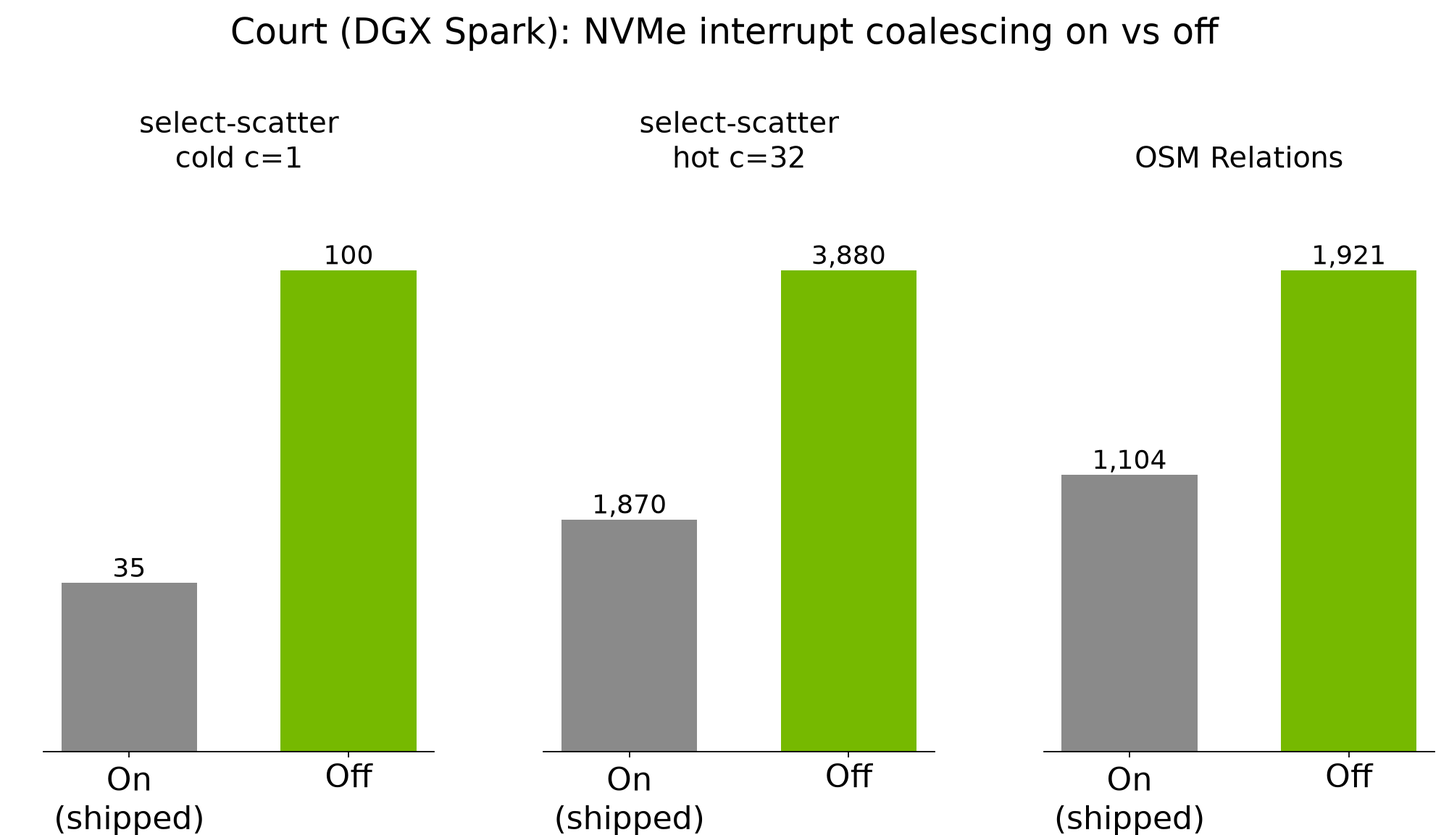
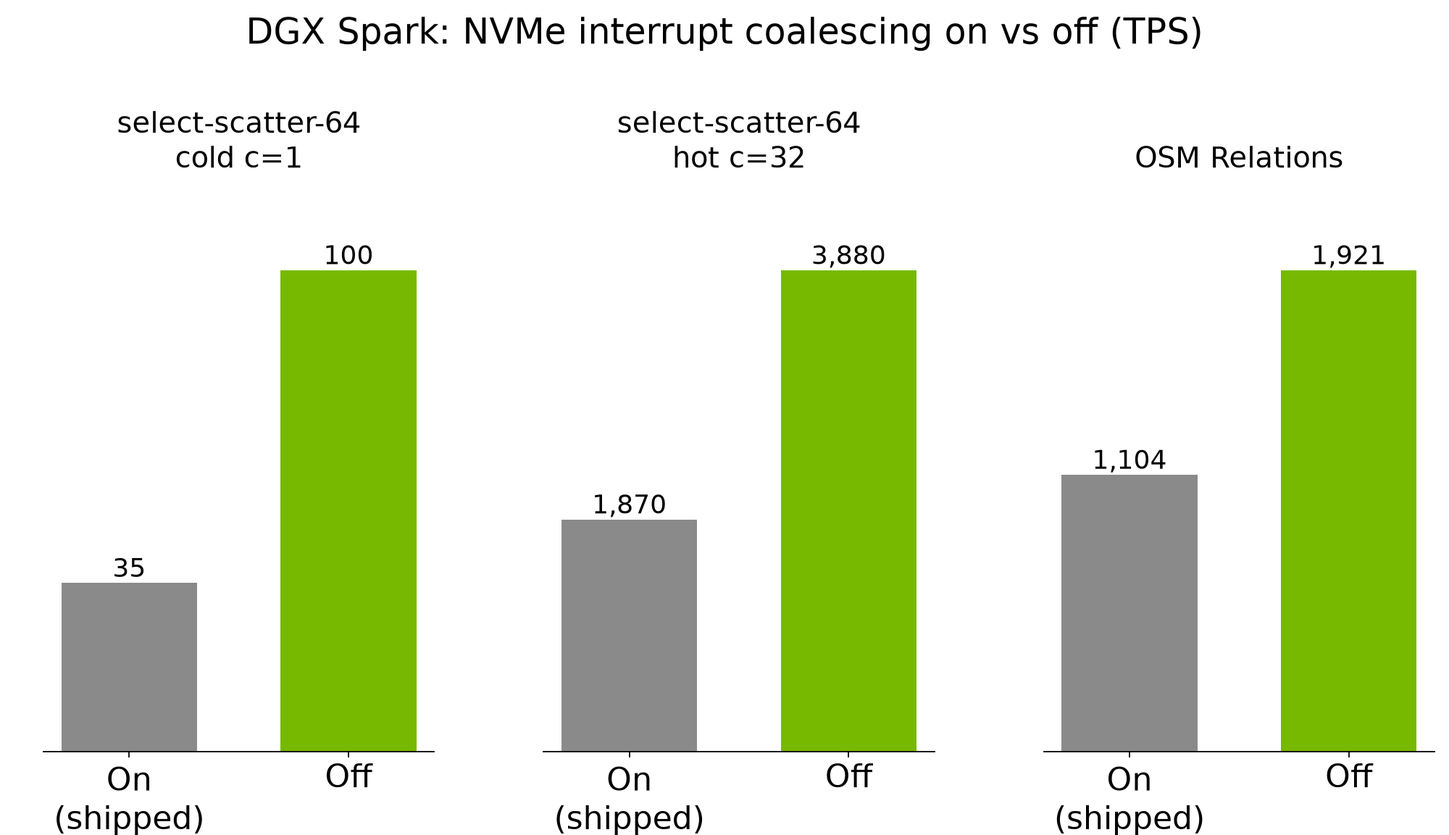
Close Abbey Darwin findings and align platform nav with the homepage.
Bank set 20/21 scatter and OSM confirmation, note the 67/68 disk-fill eject, add select-scatter-N scripts plus SCATTER=, and nest Platform guides the same way as the main page. Coalescing chart title keeps DGX Spark and TPS without the house name.

Changed region(s): [[0.155, 0.0, 0.837, 0.0625], [0.434, 0.125, 0.589, 0.1562], [0.093, 0.125, 0.248, 0.1562]]

diff --git a/reports/nvme-coalescing-compare.py b/reports/nvme-coalescing-compare.py
@@ -1,5 +1,5 @@
 #!/usr/bin/env python3
-"""Court NVMe coalescing on/off comparison bars for the platform guide."""
+"""NVMe coalescing on/off comparison bars (TPS) for the platform / ARM study."""
 
 from __future__ import annotations
 
@@ -59,7 +59,7 @@ def main() -> int:
 
     # One blank line under the figure title; give the rest to the bars.
     fig.suptitle(
-        "Court (DGX Spark): NVMe interrupt coalescing on vs off",
+        "DGX Spark: NVMe interrupt coalescing on vs off (TPS)",
         fontsize=22,
         y=0.98,
     )

diff --git a/docs/studies/arm-random-read-vs-x86/index.md b/docs/studies/arm-random-read-vs-x86/index.md
@@ -8,7 +8,7 @@ nav_order: 1
 
 # ARM vs x86: slow scattered index→heap buffer misses
 
-**Status:** Initial report (2026-11-13), updated 2026-11-15 with the court and Darwin culprits. Intended for discussion on pgsql-hackers.
+**Status:** Initial report (2026-11-13); culprits 2026-11-15; Darwin I/O-class closed and Abbey disk-fill eject 2026-11-21. Intended for discussion on pgsql-hackers.
 
 **Not a PG19 regression, and not an AIO bug.** This Relations lag has shown up consistently on Darwin (Abbey) since **PG17**, and on court (NVIDIA DGX Spark) back through **PG16**. It looks “new” only because nobody had isolated a small public case before. The causes are in the desktop ARM platforms' I/O path, not in Postgres. On court the main culprit is NVMe **interrupt coalescing** left on by the drive firmware. On Darwin it is Homebrew's **`brew services` LaunchAgent**, which clamps Postgres to a utility I/O class. See [Culprits identified so far](#culprits-identified-so-far). It also barely shows up in the wild: the OSM planet load that surfaces it needs a fast database **and** a client with enough RAM to hold a large nodes cache (~128 GB class). Most setups never get into that corner.
 
@@ -111,20 +111,20 @@ Sets: court **14–18**; twilight **124–126**. Court's grid ran with the drive
 
 ### Darwin ARM cross-check (PG 18.6, scale 17500)
 
-Abbey — Apple M4 Max, 128 GB, macOS. Set **13**, high durability (`fsync=on`, `wal_level=replica`, `io_method=worker`). Slightly larger DB than the Linux pair, mild handicap versus Linux tests. Ran under Homebrew `brew services` (utility I/O clamp — see Darwin section below); treat these numbers as soft.
+Abbey — Apple M4 Max, 128 GB, macOS. High durability (`fsync=on`, `wal_level=replica`, `io_method=worker`). Slightly larger DB than the Linux pair, mild handicap versus Linux tests. Set **13** ran under Homebrew `brew services` (utility I/O clamp). Set **20** is the published unclamped peer (`pg_ctl` / tier 0).
 
-| clients | M4 cold | M4 hot |
-|---------|------|-----|
-| 1 | 85 | 115 |
-| 8 | 867 | 957 |
-| 32 | 2331 | 2400 |
+| clients | set 13 cold (clamped) | set 13 hot | set 20 cold (tier 0) | set 20 hot |
+|---------|----------------------|------------|----------------------|------------|
+| 1 | 85 | 115 | 86 | 139 |
+| 8 | 867 | 957 | 1040 | 1209 |
+| 32 | 2331 | 2400 | 3188 | 3368 |
 
 ## Takeaways
 
 1. **`io_method=sync` ≈ `worker` on both Linux hosts.** The ARM/x86 gap does **not** move. AIO method is not the cause (and this was never a PG19-only symptom — see opening). Select-scatter cells here are 19rc2 on Linux and 18.6 on Darwin only because that is what was handy to instrument.
 2. **Court `read_ahead_kb` 2048 vs 128 is flat.** Setting **0 hurts** (~½ throughput). The gap is not ARM reading ahead too much at 2048.
 3. **`effective_io_concurrency=0` is flat on both hosts** (court **18**, twilight **126** vs their worker baselines). Prefetch/EIC is not the lever for this NL heap-fetch shape either.
-4. **A second ARM vendor/OS is also well below x86.** At 32 clients, x86 twilight is ~**3.5×** court (as shipped) and ~**2.8×** M4 Abbey. Both ARM hosts lose the same way to the x86 box, though as the next section shows, not necessarily for the same reason.
+4. **A second ARM vendor/OS is also well below x86.** At 32 clients hot, x86 twilight (~6700) is ~**3.5×** court as shipped, ~**1.7×** court with coalescing off (~3880), and ~**2.0×** M4 Abbey unclamped (set **20**, ~3370). Both ARM hosts lose to the x86 box, though as the next section shows, not for the same reason.
 
 After (1)–(4), what remains is **miss cost on the desktop ARM platforms themselves** for this scattered index→heap pattern. It's not CPU efficiency, not `read_ahead_kb`, not `effective_io_concurrency`, and not a new release or AIO landing.
 
@@ -147,7 +147,7 @@ Court's drive (Samsung `MZALC4T0HBL1`, OEM firmware `NXHB202Q`) ships with NVMe 
 
 The timer's minimum nonzero value is 100 µs, so lowering the threshold can't help a lone synchronous reader; **off** is the only useful setting. At high queue depth the drive is fine — coalescing is a throughput / interrupt-rate trade that makes sense as a desktop OEM default, and is the wrong trade for Postgres buffer misses. That is court's **#1** problem for this workload. Full x86 parity is not expected after the fix. The remaining gap vs farm x86 looks roughly proportional to clock — Grace here ~**2.8 GHz** vs desktop x86 in **~5.7 GHz** territory (~**2×**); see [DGX Spark § Residual vs x86]({{ '/platform/dgx-spark/#residual-vs-x86-clock' | relative_url }}).
 
-![Court NVMe coalescing on vs off — select-scatter-64 and OSM Relations]({{ '/images/nvme-coalescing-compare.png' | relative_url }})
+![DGX Spark: NVMe interrupt coalescing on vs off (TPS) — select-scatter-64 and OSM Relations]({{ '/images/nvme-coalescing-compare.png' | relative_url }})
 
 Operator recipe and numbers: [NVMe interrupt coalescing]({{ '/platform/nvme-coalescing/' | relative_url }}).
 
@@ -171,22 +171,19 @@ Things checked and ruled out on court along the way:
 
 pgbent now disables NVMe coalescing in `util/pgbent_tune`, which `newgis` runs after every boot alongside readahead and the CPU governor. The setting is not saved to the drive, so a power cycle restores the firmware default — same convention as the other post-boot knobs.
 
-### Darwin (Abbey): Homebrew LaunchAgent I/O class — confirmed
+### Darwin (Abbey): Homebrew LaunchAgent I/O class — confirmed / closed
 
 Homebrew's `brew services` installs a LaunchAgent (`sh.brew.postgresql@N`) that starts Postgres under launchd. On Apple Silicon that agent runs with a **QoS clamp of `THREAD_QOS_UTILITY`**, which also drops the process to **I/O throttle tier 1 (STANDARD)** instead of tier 0 (IMPORTANT). Disk reads from that postmaster are treated as background relative to interactive work. `taskinfo` on the postmaster shows the clamp; backends inherit it.
 
-| how Postgres is started | QoS clamp | I/O tier | c=1 cold TPS | c=32 cold TPS |
-|---|---|---|---|---|
-| `brew services` (LaunchAgent) | `THREAD_QOS_UTILITY` | tier 1 STANDARD | ~52–53 | ~1670–1677 |
-| `pg_ctl` from an ssh/login shell | none | tier 0 IMPORTANT | ~68 | ~2577–2579 |
+Published grids (same 8 KB Homebrew binary, scale 17500, durable face): set **13** clamped vs set **20** `pg_ctl` tier 0 — see the Darwin cross-check table above. Unclamping is about **+20% at c=1 hot** and **+40% at c=32**. An earlier ad-hoc restart A/B saw the same direction. Intermittent “Darwin looks fine / then doesn’t” OSM behavior matches sometimes using `brew services` and sometimes a manual `pg_ctl`.
 
-Same 8 KB Homebrew binary, same scale-17500 DB, restart + `purge` before each pass. Unclamping is about **+30% at c=1** and **+54% at c=32**. The published Abbey set **13** numbers above were under the clamped service. Intermittent “Darwin looks fine / then doesn’t” behavior in earlier OSM work is consistent with sometimes running under `brew services` and sometimes under a manual `pg_ctl`.
+**Recipe:** for database work on macOS, do not use `brew services` as the long-running server. Stop the LaunchAgent and start with `pg_ctl` (set `LC_ALL` to a real locale — Homebrew’s plist does that; a bare `pg_ctl` without it can fail with “postmaster became multithreaded during startup”). A custom LaunchDaemon/LaunchAgent without the utility clamp would also work; the stock Homebrew one does not. Operator detail: [macOS LaunchAgent I/O class]({{ '/platform/darwin/' | relative_url }}).
 
-**Recipe:** for database work on macOS, do not use `brew services` as the long-running server. Stop the LaunchAgent and start with `pg_ctl` (set `LC_ALL` to a real locale — Homebrew’s plist does that; a bare `pg_ctl` without it can fail with “postmaster became multithreaded during startup”). A custom LaunchDaemon/LaunchAgent without the utility clamp would also work; the stock Homebrew one does not.
+**Block size is not the lever here.** A from-source PG 18.6 build with `--with-blocksize=16` (matching Apple Silicon’s 16 KB VM pages) was A/B’d unclamped against the 8 KB Homebrew cluster on the same cold `select-scatter-64` protocol: ~71 vs ~68 TPS at c=1, ~2198 vs ~2160 at c=32 — flat. Prefer fixing the I/O class over a custom page size.
 
-**Block size is not the lever here.** A from-source PG 18.6 build with `--with-blocksize=16` (matching Apple Silicon’s 16 KB VM pages) was A/B’d unclamped against the 8 KB Homebrew cluster on the same cold `select-scatter-64` protocol: ~71 vs ~68 TPS at c=1, ~2198 vs ~2160 at c=32 — flat. The spindle-era lore that larger pages half the I/O count does not show up on this NVMe miss path. You probably don't need your own recompile just to change the default 8 KB page size to 16; you should try fixing the I/O class instead.
+**OSM:** unclamped durable set **15** moved Relations ~**1.43×** (**~10600 s → 7527 s**, **~1944**/s). Cool-disk retry set **16** matched (**~1930**/s Relations, **10.41h**, index **67** kNodes/s, score **279**) — board cell. Clean-disk confirmation set **21** (~1.4 Ti free) kept the same ~40k s index wall and finished **10.86h** / score **276**. Unclamping helps Relations and scatter; it is **not** a free win for planet indexes or overall score. btree init tier ladder (sets **17**/**18**) was mostly flat. **Investigation closed.**
 
-Abbey unclamped durable OSM (set **15**) moved Relations ~**1.43×** (**~10600 s → 7527 s**, **~1944**/s). Cool-disk retry (set **16**) matched it (**~1930**/s Relations, **10.41h** overall, index **67** kNodes/s) — the index-phase regression is real, not a hot-disk artifact. **Investigation closed:** unclamping is the right operator fix for Relations-shaped reads / scatter, **not** a free win for planet indexes or overall OSM score. No further Darwin I/O-class chase.
+**Disk fill is a separate invalidation.** Set **11** tests **67**/**68** (~11.1 h, scores 268/270) were low-free-space SSD collapses and have been **ejected** from the Abbey results DB. Runs over ~11 h on this box are not fair cells. The durable-unclamp index cost (~40k s) is not that cliff.
 
 ## Handoff
 
@@ -198,6 +195,14 @@ Natural next reproduction: **Graviton** or another server-class Linux ARM vendor
 
 - Court OSM coalescing off: durable set **24** / test **217** Relations **~1.74×** (**13251 s → 7614 s**), **6.48h**, score **656**; fast set **25** / test **218** **6.12h**, score **780** — on the public boards.
 - Court's remaining ~2× Relations gap vs a good x86 after coalescing — suspected mostly the ~2.8 vs ~5.7 GHz clock envelope; not assumed to reach parity.
-- Abbey Darwin I/O-class **closed**: Relations/scatter win when unclamped; indexes / ~10.4h overall stay slow (sets **15**/**16** board cell **279**; scatter tier-0 set **20**). Not chasing further.
-- Twilight `read_ahead_kb` ladder + OSM RA=0 (sets **134–146**) and wrap fast OSM set **152** (**570** / **5.26h**, not board-best) banked; RA=0 cost under [Linux standard tuning]({{ '/platform/linux/' | relative_url }}) § Read-ahead.
+- Abbey Darwin I/O-class **closed** (2026-11-21): scatter set **20** vs **13**; OSM board set **16** (score **279**); set **21** confirmation banked; disk-fill tests **67**/**68** ejected. Not chasing further.
+- Twilight `read_ahead_kb` ladder + OSM RA=0 (sets **134–146**) and wrap fast OSM set **152** (**570** / **5.26h**, not board-best) banked; RA=0 cost under [Linux standard OS tuning]({{ '/platform/linux/' | relative_url }}) § Read-ahead.
 - CPU and power cost of coalescing off (court avg package ~24→34 W; Relations/watt still up).
+
+### Next probes (court predictable; same MULTI / one-knob style)
+
+Court is stable enough to use the results DB the way GUC studies already do: **hold the face fixed, change one benchmark parameter, label it in `tests.multi` (or `SETCLIENTS`), compare.**
+
+1. **OSM client / process parallelism on ARM.** Twilight and siren settled on `SETCLIENTS=5` / osm2pgsql `--number-processes 5` long ago. Court (20 mixed cores, coalescing off) may want a different optimum — ladder a few process counts on the same durable (or fast) face and pick by Relations/s and overall wall clock, not by habit.
+
+2. **`select-scatter-N` size ladder** — court set **30** done (scripts **1 / 2 / 4 / 8 / 16 / 64**, cold/hot, coalescing off). Still to run: same ladder on **twilight** (x86 peer); Abbey later if useful. Scripts live as `tests/select-scatter-N.sql` with `SCATTER=N` / `MULTI=N` via `wl/arm-miss-isolation`.

diff --git a/docs/platform/darwin.md b/docs/platform/darwin.md
@@ -1,23 +1,23 @@
 ---
 layout: home
-title: macOS / Darwin
+title: macOS LaunchAgent I/O class
 permalink: /platform/darwin/
 parent: Platform guides
-nav_order: 5
+nav_order: 3
 ---
 
-# macOS / Darwin
+# macOS LaunchAgent I/O class
 
 ## Homebrew `brew services` I/O class
 
 Homebrew’s `brew services` installs a LaunchAgent (`sh.brew.postgresql@N`) that starts Postgres under launchd. On Apple Silicon that agent runs with a **QoS clamp of `THREAD_QOS_UTILITY`**, which drops the process to **I/O throttle tier 1 (STANDARD)** instead of tier 0 (IMPORTANT). Disk reads look like background work relative to the desktop.
 
-| How Postgres is started | QoS clamp | I/O tier | select-scatter-64 c=1 cold | c=32 cold |
-|-------------------------|-----------|----------|-------------------------|-----------|
-| `brew services` | `THREAD_QOS_UTILITY` | tier 1 | ~52–53 TPS | ~1670–1677 |
-| `pg_ctl` from ssh/login | none | tier 0 | ~68 TPS | ~2577–2579 |
+| How Postgres is started | QoS clamp | I/O tier | select-scatter-64 set | c=1 | c=32 |
+|-------------------------|-----------|----------|----------------------|-----|------|
+| `brew services` | `THREAD_QOS_UTILITY` | tier 1 | **13** (clamped) | 85–115 | 2331–2400 |
+| `pg_ctl` from ssh/login | none | tier 0 | **20** (unclamped) | 86–139 | 3188–3368 |
 
-About **+30% at c=1** and **+54% at c=32** when unclamped. Published Abbey select-scatter-64 set **13** was under the clamped service — treat those numbers as soft. The unclamped A/B lives in ad-hoc `results/logs/darwin-qos-ab/` logs, not as a results-DB set. **Loose end:** after the btree build ladder (sets **17**/**18**), re-run the cold `select-scatter-64` grid under **tier 0** (`pg_ctl`) into a proper `testset` so the study has a published unclamped peer to set 13. Intermittent “Darwin looks fine / then doesn’t” OSM behavior matches sometimes using `brew services` and sometimes a manual `pg_ctl`.
+Published cold/hot grids (scale 17500, durable face). Unclamping is about **+20% at c=1 hot** and **+40% at c=32** versus the clamped set. An earlier ad-hoc restart A/B (`results/logs/darwin-qos-ab/`) saw a similar direction at lower absolute TPS. Intermittent “Darwin looks fine / then doesn’t” OSM behavior matches sometimes using `brew services` and sometimes a manual `pg_ctl`.
 
 ### Startup: tier 1 (brew / LaunchAgent)
 
@@ -79,21 +79,22 @@ eff qos clamp: THREAD_QOS_UNSPECIFIED
 
 Backends inherit the postmaster’s effective policy. Spot-check one with `pgrep -P $pm -f 'postgres: '` and the same `taskinfo` grep.
 
-## Verdict (closed 2026-11-20)
+## Verdict (closed 2026-11-21)
 
 **Unclamping I/O class is not a free win for the whole OSM load.** Keep the operator recipe (prefer `pg_ctl` / tier 0 over stock `brew services`) for Relations-shaped random reads and SELECT scatter. Do **not** expect it to fix planet **index** wall time or board score by itself. No further Abbey I/O-class / REINDEX chase unless a new question opens.
 
 | probe | result |
 |-------|--------|
-| Cold `select-scatter-64` clamp → unclamp (set **13** vs **20**) | Clear win (~86–139 @1 / ~3188–3368 @32 unclamped) |
+| Cold `select-scatter-64` clamp → unclamp (set **13** vs **20**) | Clear win (set **20**: 86–139 @1 / 3188–3368 @32) |
 | Durable OSM unclamp (sets **15** / **16**) | Relations ~**1.43×**; overall still ~**10.4h** — indexes stay slow |
+| Clean-disk confirmation (set **21**, ~1.4 Ti free) | Indexes match **15**/**16** (~40k s); overall **10.86h** / score **276** — banked, not a board cell |
 | pgbench init btree ladder tier 1 vs 0 (sets **17** / **18**) | Mostly flat — no OSM-index-shaped free lunch |
 | Block size 8 KB vs 16 KB | Flat |
 
-Set **21** (clean-disk unclamped OSM retry, started 2026-11-20 with ~1.4 Ti free) may finish as a banked confirmation cell; it is **not** a gate and needs no follow-up matrix. Disk fill can spoil NVMe runs (leftover `gis`+`pgbench` left only ~393 Gi free before the cleanup) — keep headroom — but set **16** already had **1.5 Ti** free at start with slow indexes, so fill alone does not reopen the case.
+**Disk fill is a separate flaw.** When the Data volume is short on free space, Abbey OSM index builds can collapse into **>11 h** runs that are not fair comparisons. Set **11** tests **67** and **68** (~11.1 h, scores 268/270) were that pattern and have been **ejected** from the results DB. Keep headroom before a planet load. Slow indexes on the durable unclamped face (~40k s on **15**/**16**/**21**, including cool-disk and clean-disk retries) are **not** that fill cliff — they are the real cost of this face on Darwin.
 
 ## Block size
 
 Rebuilding Postgres with `--with-blocksize=16` to match Apple Silicon’s 16 KB VM pages was A/B’d unclamped against 8 KB Homebrew on the same cold select-scatter-64 protocol: **flat** (~71 vs ~68 at c=1, ~2198 vs ~2160 at c=32). Spindle-era lore that larger pages half the I/O count does not show up here. Prefer fixing the I/O class over a custom page size.
 
-Public durable board cell remains set **16** (score **279**). Details: [ARM random read vs x86]({{ '/studies/arm-random-read-vs-x86/' | relative_url }}).
+Public durable board cell remains set **16** (score **279**, **10.41h**). Details: [ARM random read vs x86]({{ '/studies/arm-random-read-vs-x86/' | relative_url }}).

diff --git a/docs/workloads/select.md b/docs/workloads/select.md
@@ -8,7 +8,7 @@ parent: Workloads
 
 You can study CPU capacity of PostgreSQL using pgbench running SELECT statements at a grid of client × size examples. You can reach a fraction of random I/O SSD speed this way on local runs. 2×–4× RAM is the recommended range to make caching of the whole data set impossible, while allowing indexes to fit easily in memory on tests that use them. A SELECT variation (`select-pages`) uses index range scans instead of single row lookups.  That one is much better at fetching enough blocks at a time to saturate SSD.  It runs based on a block multiplier (`MULTI` / pgbench `:multiplier` on one script — see `wl/multis`).
 
-`select-scatter-64` is the Relations-shaped miniature: unsorted random aids → nested-loop index probes and heap fetches. Batch size is fixed in the script name (`select-scatter-N`); setup writes matching `MULTI=N` into `tests.multi`, and `benchwarmer` also derives it from `SCRIPT`. More sizes will be more scripts, not more `MULTI` values on one file — when a second size exists in the results DB, older rows can be backfilled to this naming. Reproduce via `wl/arm-miss-isolation`; study write-up: [ARM random read vs x86]({{ '/studies/arm-random-read-vs-x86/' | relative_url }}).
+`select-scatter-64` is the Relations-shaped miniature: unsorted random aids → nested-loop index probes and heap fetches. Batch size is fixed in the script name (`select-scatter-N`); setup writes matching `MULTI=N` into `tests.multi`, and `benchwarmer` also derives it from `SCRIPT`. Scripts exist for **1 / 2 / 4 / 8 / 16 / 64** (`SCATTER=N` via `wl/arm-miss-isolation`). Court set **30** ran that ladder cold/hot with coalescing off; twilight (x86) still to go — see [ARM study § Next probes]({{ '/studies/arm-random-read-vs-x86/' | relative_url }}).
 
 Cloud tests running simple SELECTs mainly measure latency between the client and server. Since some queries return cached data very fast, reviewing the minimum latency observed tracks very well with connection latency.
 

diff --git a/docs/platform/dgx-spark.md b/docs/platform/dgx-spark.md
@@ -3,7 +3,8 @@ layout: home
 title: NVIDIA DGX Spark
 permalink: /platform/dgx-spark/
 parent: Platform guides
-nav_order: 6
+nav_order: 2
+has_children: true
 ---
 
 # NVIDIA DGX Spark
@@ -13,7 +14,7 @@ Lab host **court**: NVIDIA DGX Spark (board **P4242**), Grace CPU, DGX OS (Ubunt
 1. **[NVMe interrupt coalescing]({{ '/platform/nvme-coalescing/' | relative_url }})** — I/O: DGX OS turns feature 8 on at boot; clearing it was ~**1.75×** on OSM Relations.
 2. **SELECT client grid / mixed-core off-ratio** — CPU scheduling: a power-of-two-only ladder undersells the box (and mildly favors AMD chips that land on **16** / **32**); fair points at **20** / **40**. See below.
 
-Also apply the shared [Linux standard tuning]({{ '/platform/linux/' | relative_url }}) (`pgbent_tune`: governor, readahead, coalescing clear, TRIM). Set `DISKLIST="nvme0n1"` in `config` or `iostat.csv` stays empty.
+Also apply the shared [Linux standard OS tuning]({{ '/platform/linux/' | relative_url }}) (`pgbent_tune`: governor, readahead, coalescing clear, TRIM). Set `DISKLIST="nvme0n1"` in `config` or `iostat.csv` stays empty.
 
 ## Package power measurement
 
@@ -67,5 +68,5 @@ After coalescing is off and the client grid is fair, court still sits behind the
 
 - [NVMe interrupt coalescing]({{ '/platform/nvme-coalescing/' | relative_url }}) — feature 8 / NVIDIA boot service / measured Relations win
 - [ARM random read vs x86]({{ '/studies/arm-random-read-vs-x86/' | relative_url }}) — full isolation write-up (court vs twilight vs Abbey)
-- [Linux standard tuning]({{ '/platform/linux/' | relative_url }}) — post-boot checklist including coalescing clear
+- [Linux standard OS tuning]({{ '/platform/linux/' | relative_url }}) — post-boot checklist including coalescing clear
 - [SELECT performance vs power]({{ '/leaderboards/select-performance-power/' | relative_url }}) — platform sockets/prepared ladder (notes the 16-client dip)

diff --git a/docs/platform/index.md b/docs/platform/index.md
@@ -14,11 +14,10 @@ Think of vendor NAS runbooks (EMC and friends) that publish database-oriented st
 
 ## Start here
 
-- [Linux standard tuning]({{ '/platform/linux/' | relative_url }}) — what `pgbent_tune` applies after every boot, and why
-- [Linux pdflush / writeback]({{ '/platform/linux-pdflush/' | relative_url }}) — page-cache writeback theory (historical pdflush → flusher threads)
-- [Linux dirty memory]({{ '/platform/linux-dirty-memory/' | relative_url }}) — measured impact of `vm.dirty_*` on OSM load
-- [NVMe interrupt coalescing]({{ '/platform/nvme-coalescing/' | relative_url }}) — free latency win when OEM firmware left coalescing on
-- [macOS / Darwin]({{ '/platform/darwin/' | relative_url }}) — Homebrew `brew services` LaunchAgent I/O clamp
-- [NVIDIA DGX Spark]({{ '/platform/dgx-spark/' | relative_url }}) — court: coalescing + mixed-core SELECT grid (two oddities), power (`spark_hwmon` / spbm), NIC EEE / ASPM
+- [Linux standard OS tuning]({{ '/platform/linux/' | relative_url }}) — what `pgbent_tune` applies after every boot, and why
+  - [dirty memory]({{ '/platform/linux-dirty-memory/' | relative_url }}) and [pdflush / writeback]({{ '/platform/linux-pdflush/' | relative_url }})
+- [NVIDIA DGX Spark]({{ '/platform/dgx-spark/' | relative_url }}) platform review — court: coalescing + mixed-core SELECT grid, power (`spark_hwmon` / spbm), NIC EEE / ASPM
+  - [NVMe interrupt coalescing]({{ '/platform/nvme-coalescing/' | relative_url }})
+- [macOS LaunchAgent I/O class]({{ '/platform/darwin/' | relative_url }}) — Homebrew `brew services` utility clamp
 
 The full ARM miss isolation case (select-scatter-64, Relations, court vs twilight vs Abbey) is the [ARM random read vs x86]({{ '/studies/arm-random-read-vs-x86/' | relative_url }}) study.

diff --git a/.agents/skills/pg-release-runs/SKILL.md b/.agents/skills/pg-release-runs/SKILL.md
@@ -610,6 +610,21 @@ matrix on PG18. OS upgrades and Planet refresh sit in the same window.
 3. **Node cache vs `shared_buffers`** (48→32 on `osm-mem-128`; after durable baselines match)
 4. **`maintenance_work_mem` sweep** (after memory packing is settled)
 
+### Platform / workload knobs (not GUC studies; after court is predictable)
+
+Same one-parameter style as GUC work: fix the face, change one benchmark
+setting, record it (`SETCLIENTS` / `tests.multi`), compare. Does **not**
+gate OS cutover. See [ARM study § Next probes](../../../docs/studies/arm-random-read-vs-x86/index.md):
+
+1. **OSM process parallelism on ARM (court)** — ladder osm2pgsql
+   `--number-processes` / `SETCLIENTS` off the long-standing x86 **5**;
+   ARM mixed-core may want a different peak.
+2. **`select-scatter-N` ladder** — scripts for **2 / 4 / 8 / 16** (and
+   optionally **1**) beside **64**; cold/hot miss grid on **court +
+   twilight**. Standard single-row SELECT is the **select-1** end of the
+   family; scatter sizes are separate scripts with matching `MULTI=N`
+   (not `select-pages`-style MULTI on one file).
+
 ## After 19rc1 release snapshot: OS upgrades (siren, twilight)
 
 Mid-cycle work — do **not** start until the release-snapshot cells have wrapped

diff --git a/.cursor/skills/pg-release-runs/SKILL.md b/.cursor/skills/pg-release-runs/SKILL.md
@@ -610,6 +610,21 @@ matrix on PG18. OS upgrades and Planet refresh sit in the same window.
 3. **Node cache vs `shared_buffers`** (48→32 on `osm-mem-128`; after durable baselines match)
 4. **`maintenance_work_mem` sweep** (after memory packing is settled)
 
+### Platform / workload knobs (not GUC studies; after court is predictable)
+
+Same one-parameter style as GUC work: fix the face, change one benchmark
+setting, record it (`SETCLIENTS` / `tests.multi`), compare. Does **not**
+gate OS cutover. See [ARM study § Next probes](../../../docs/studies/arm-random-read-vs-x86/index.md):
+
+1. **OSM process parallelism on ARM (court)** — ladder osm2pgsql
+   `--number-processes` / `SETCLIENTS` off the long-standing x86 **5**;
+   ARM mixed-core may want a different peak.
+2. **`select-scatter-N` ladder** — scripts for **2 / 4 / 8 / 16** (and
+   optionally **1**) beside **64**; cold/hot miss grid on **court +
+   twilight**. Standard single-row SELECT is the **select-1** end of the
+   family; scatter sizes are separate scripts with matching `MULTI=N`
+   (not `select-pages`-style MULTI on one file).
+
 ## After 19rc1 release snapshot: OS upgrades (siren, twilight)
 
 Mid-cycle work — do **not** start until the release-snapshot cells have wrapped

diff --git a/docs/platform/nvme-coalescing.md b/docs/platform/nvme-coalescing.md
@@ -2,8 +2,8 @@
 layout: home
 title: NVMe interrupt coalescing
 permalink: /platform/nvme-coalescing/
-parent: Platform guides
-nav_order: 4
+parent: NVIDIA DGX Spark
+nav_order: 1
 ---
 
 # NVMe interrupt coalescing
@@ -37,7 +37,7 @@ Host notes (power sensors, NIC EEE / ASPM): [NVIDIA DGX Spark]({{ '/platform/dgx
 
 Samsung `MZALC4T0HBL1`, firmware `NXHB202Q`, with coalescing active (DGX OS boot service / shipped default). Twilight’s Kingston had it off. Same Postgres durable face, same select-scatter-64 / OSM shape:
 
-![Court NVMe coalescing on vs off — select-scatter-64 and OSM Relations]({{ '/images/nvme-coalescing-compare.png' | relative_url }})
+![DGX Spark: NVMe interrupt coalescing on vs off (TPS) — select-scatter-64 and OSM Relations]({{ '/images/nvme-coalescing-compare.png' | relative_url }})
 
 | | Coalescing on (shipped) | Coalescing off |
 |--|-------------------------|----------------|

diff --git a/docs/results-summary/pg19/index.md b/docs/results-summary/pg19/index.md
@@ -37,7 +37,7 @@ Public CPU detail is on Greg’s [Geekbench browser profile](https://browser.gee
 | siren | R5 9600X (was R9 9950X) | 9950X pack closed (SELECT four faces; OSM set **108**). **9600X** SELECT set **118** + OSM set **117** now on the power boards |
 | twilight | i5-13600K | SELECT four faces; OSM fast + durable; RA ladder + wrap fast set **152** |
 | court | NVIDIA Spark | SELECT four faces + sockets `;` / `SELECT 1`; OSM coalescing-off durable/fast (sets **24** / **25**) |
-| abbey | M4 Max Studio | PG18 OSM stand-in; durable unclamped cool-disk set **16**; no PG19 during RC |
+| abbey | M4 Max Studio | PG18 OSM stand-in; durable unclamped set **16** (board); set **21** confirmation; disk-fill **67**/**68** ejected; no PG19 during RC |
 
 ## Pin
 

diff --git a/docs/platform/linux.md b/docs/platform/linux.md
@@ -1,12 +1,13 @@
 ---
 layout: home
-title: Linux standard tuning
+title: Linux standard OS tuning
 permalink: /platform/linux/
 parent: Platform guides
 nav_order: 1
+has_children: true
 ---
 
-# Linux standard tuning
+# Linux standard OS tuning
 
 pgbent’s Linux hosts re-apply a small set of OS settings after every boot via [`util/pgbent_tune`](https://github.com/gregs1104/pgbent/blob/main/util/pgbent_tune), usually from `util/newgis`. None of these persist across reboot on their own (CPU governor and `read_ahead_kb` are runtime; NVMe coalescing is not saved to the drive). That is intentional: the same script is the checklist.
 

diff --git a/docs/platform/linux-dirty-memory.md b/docs/platform/linux-dirty-memory.md
@@ -2,8 +2,8 @@
 layout: home
 title: Linux dirty memory
 permalink: /platform/linux-dirty-memory/
-parent: Platform guides
-nav_order: 3
+parent: Linux standard OS tuning
+nav_order: 1
 ---
 
 # Linux Dirty Memory:  testing
